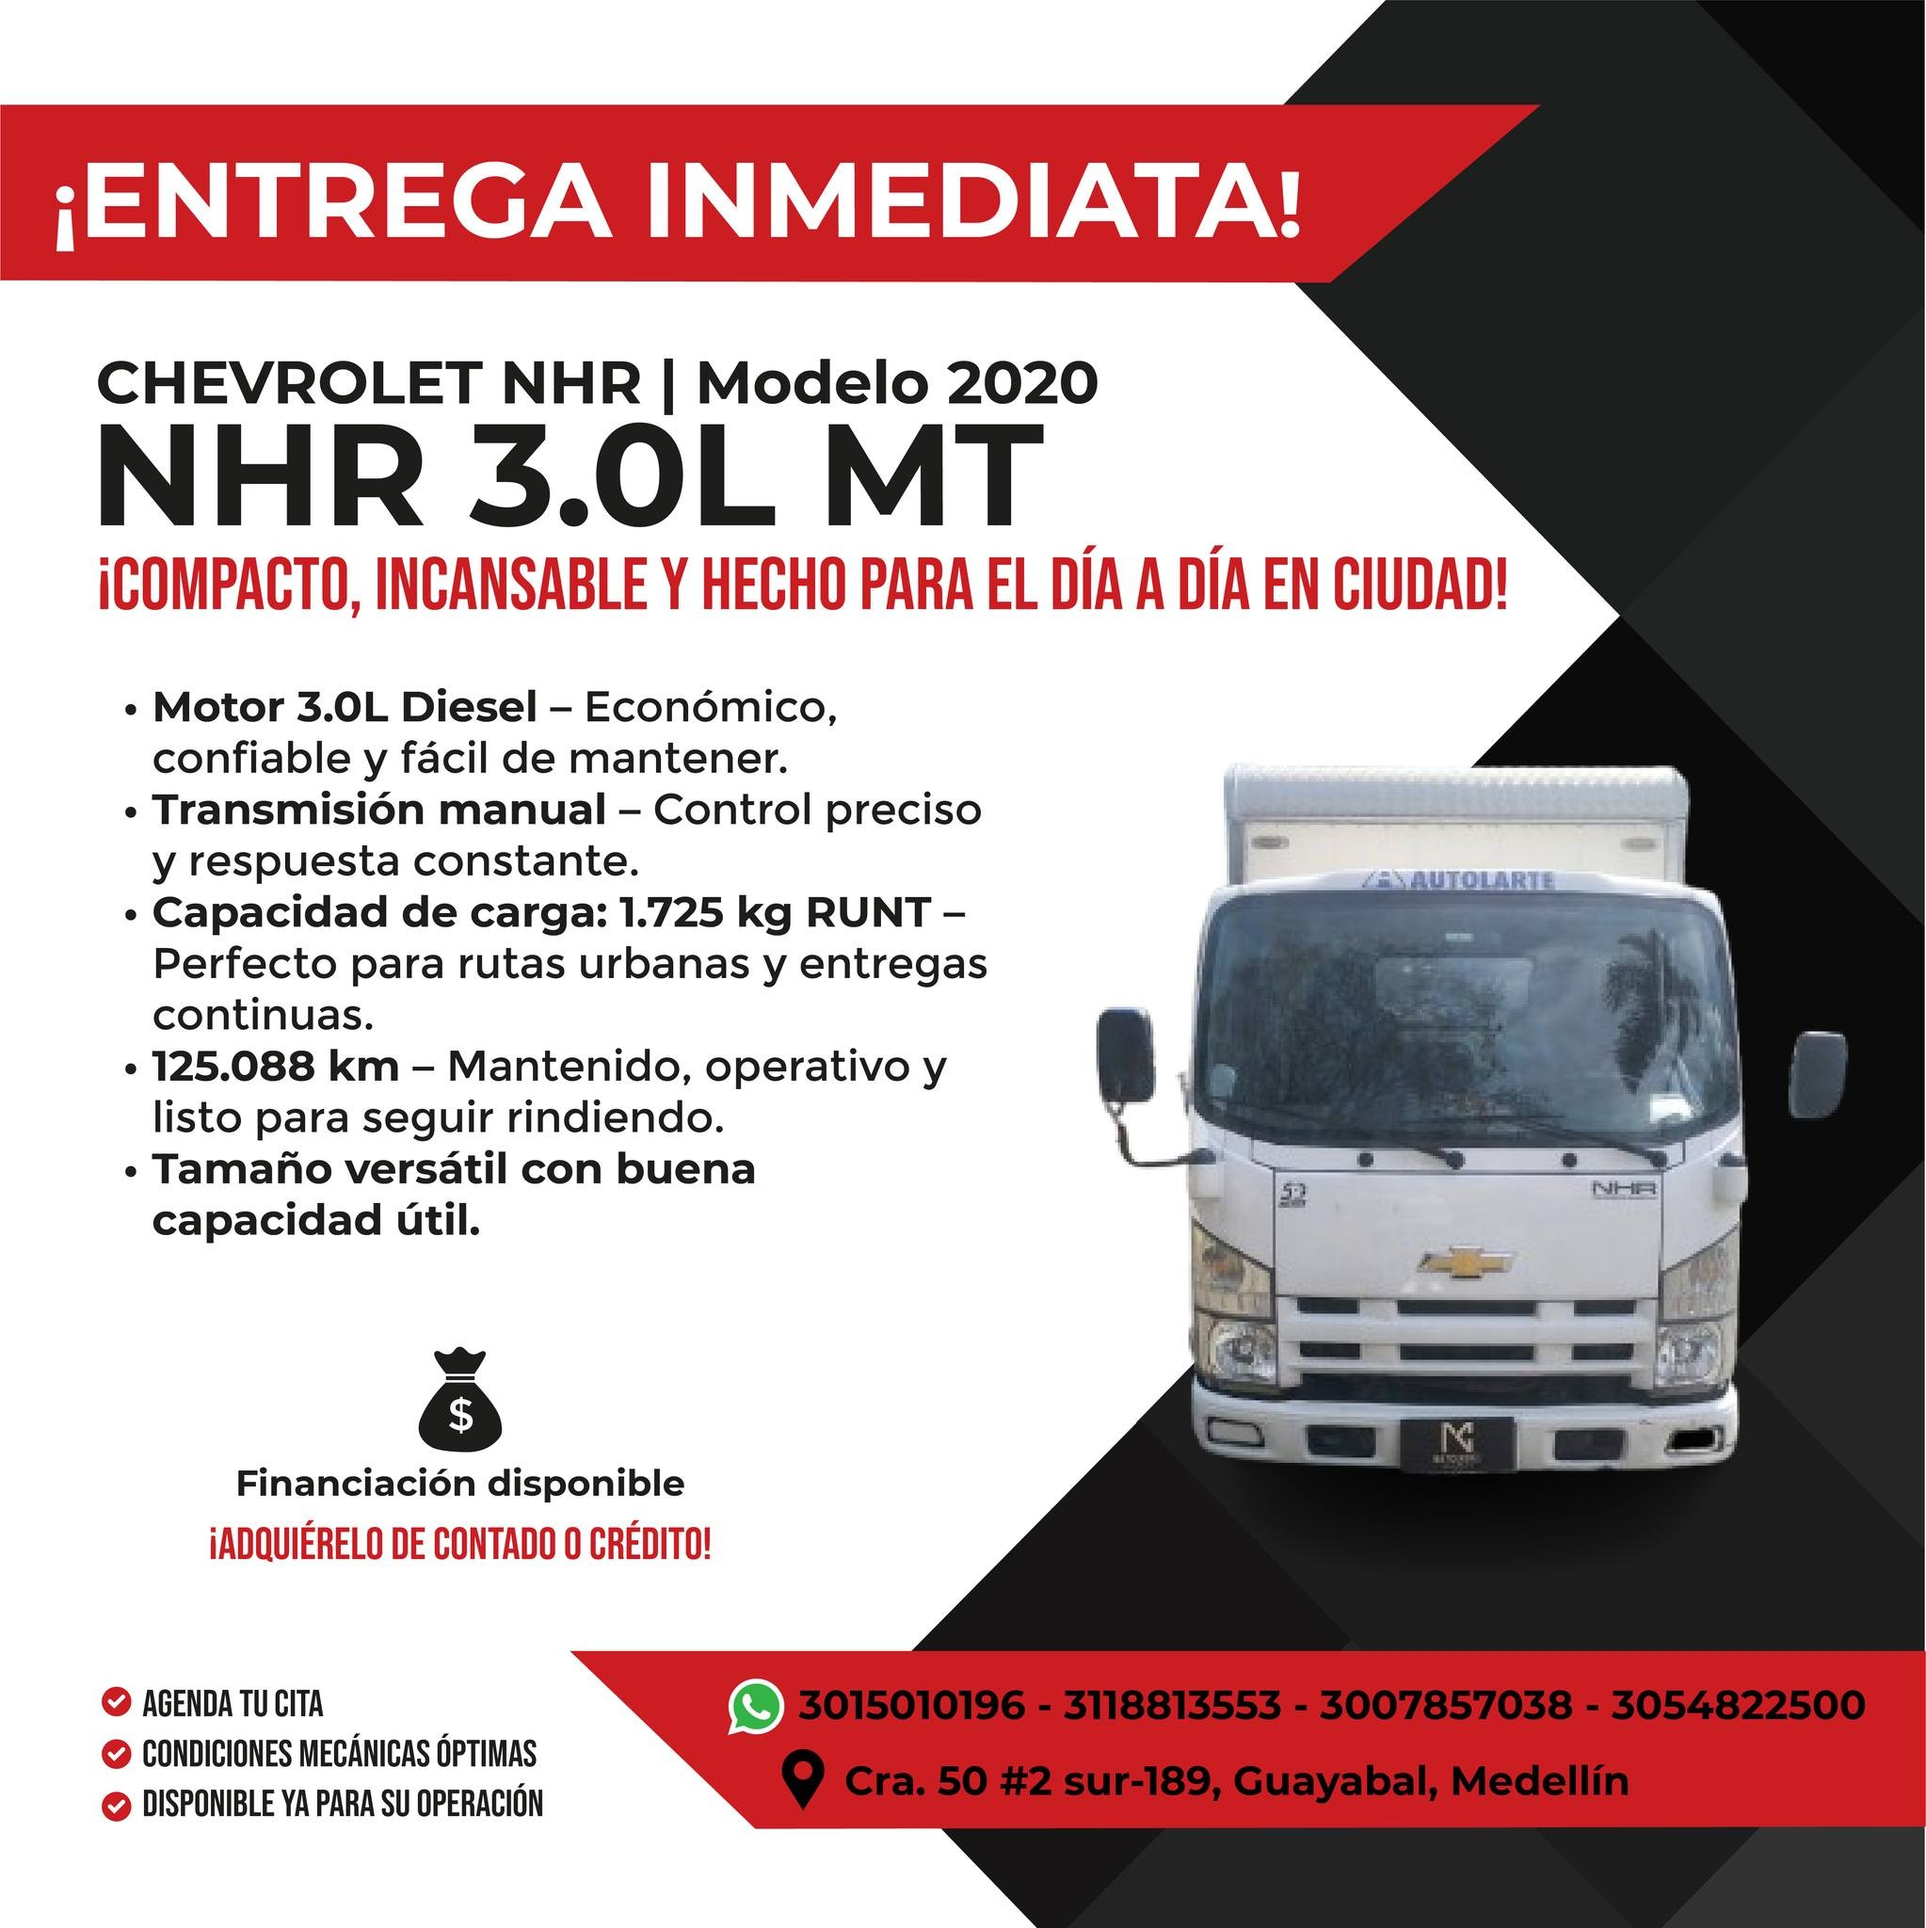
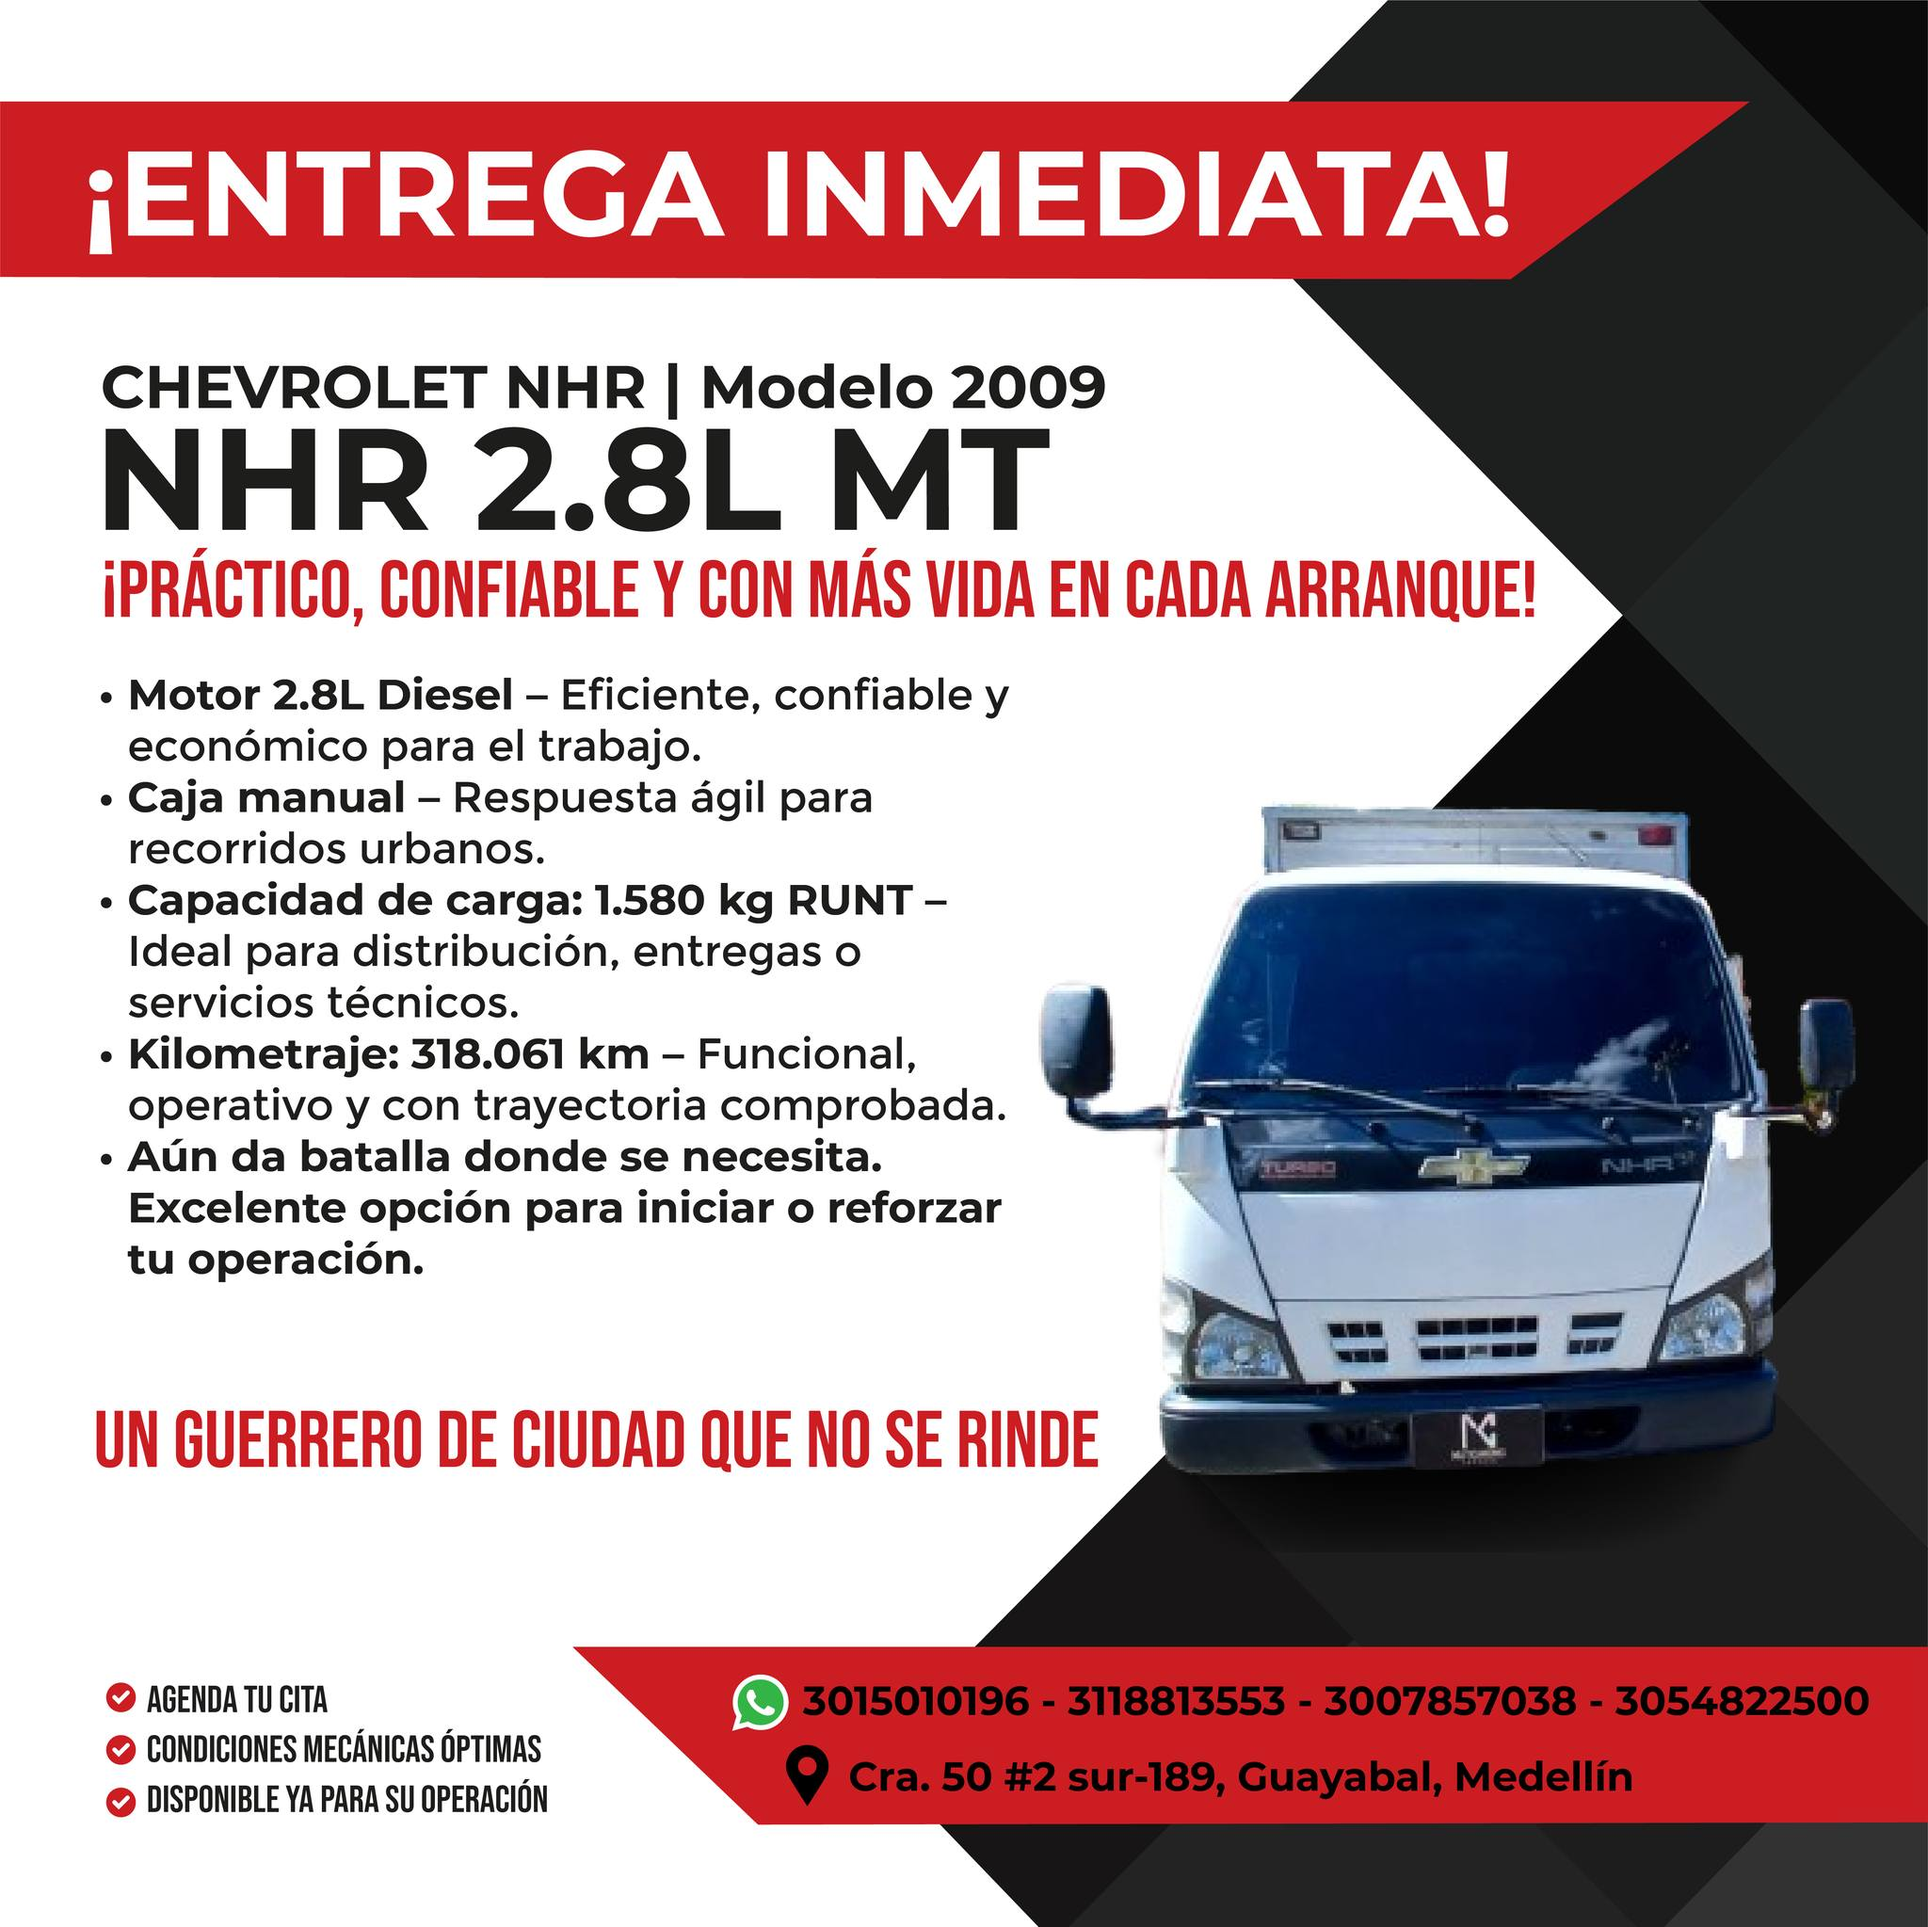
Descripción de los cambios

diff --git a/src/assets/pages/Camiones.jsx b/src/assets/pages/Camiones.jsx
@@ -683,29 +683,59 @@ const Camiones = () => {
   destacado: true,
   descripcion: 'Reconocido por su bajo costo de operacion.',
   imagenes: [
-    '/img/CHEVROLETNHR2020.webp',
-    '/img/CHEVROLETNHR2020.webp',
-    '/img/CHEVROLETNHR2020.webp'
+    '/img/CHEVROLETNHRMODELO20203.0.webp',
+    '/img/CHEVROLETNHRMODELO20203.0.webp',
+    '/img/CHEVROLETNHRMODELO20203.0.webp'
   ],
   video: 'https://www.youtube.com/watch?v=JGwWNGJdvx8',
   especificaciones: {
     motor: '3,0L Diesel',
     transmision: 'MANUAL',
     capacidad: 'De carga 1725 kg RUNT'
+  }
+},
+  {
+  id: 26,
+  marca: 'Chevrolet',
+  tipo: 'Camión',
+  modelo: '',
+  ubicacion: 'Medellín',
+  precio: 62000000,
+  kilometraje: 318061,
+  año: 2009,
+  estado: 'Usado',
+  destacado: true,
+  descripcion: 'Aun da batalla donde se necesita, excelente opción para iniciar o reforzar tu operación .',
+  imagenes: [
+    '/img/CHEVROLETNHR2020.webp',
+    '/img/CHEVROLETNHR2020.webp',
+    '/img/CHEVROLETNHR2020.webp'
+  ],
+  video: 'https://www.youtube.com/watch?v=JGwWNGJdvx8',
+  especificaciones: {
+    motor: '2,8L Diesel',
+    transmision: 'MANUAL',
+    capacidad: 'De carga 1580 kg RUNT'
   } // ✅ Aquí no va coma si es el último atributo
 }
 
-  ]
+  ];
 
-return camiones.map(camion => ({
-      ...camion,
-      marca: normalizeValue(camion.marca) === 'chevrolet' ? 'Chevrolet' : camion.marca,
-      tipo: normalizeValue(camion.tipo) === 'camión' ? 'Camión' : 
-            normalizeValue(camion.tipo) === 'camióneta' ? 'Camióneta' : camion.tipo,
-      ubicacion: normalizeValue(camion.ubicacion) === 'medellín' ? 'Medellín' : camion.ubicacion
-    }));
+return rawCamiones.map(camion => {
+      const normalizedMarca = normalizeValue(camion.marca);
+      const normalizedTipo = normalizeValue(camion.tipo);
+      const normalizedUbicacion = normalizeValue(camion.ubicacion);
+      
+      return {
+        ...camion,
+        marca: normalizedMarca.includes('chevrolet') ? 'Chevrolet' : 
+               normalizedMarca === 'fotón' ? 'Fotón' : camion.marca,
+        tipo: normalizedTipo === 'camión' ? 'Camión' : 
+              normalizedTipo === 'camióneta' ? 'Camióneta' : camion.tipo,
+        ubicacion: normalizedUbicacion === 'medellín' ? 'Medellín' : camion.ubicacion
+      };
+    });
   }, [normalizeValue]);
-
   // Actualizar ancho de ventana al cambiar tamaño con debounce
   useEffect(() => {
     let resizeTimeout;

diff --git a/src/assets/pages/CamionesDetalle.jsx b/src/assets/pages/CamionesDetalle.jsx
@@ -1007,9 +1007,57 @@ const CamionDetalle = () => {
         'Transmisión Manual - Control preciso y respuesta constante',
         'Capacidad de Carga - 1.725 KG RUNT Perfecto para rutas urbanas y entregas',
 
-      ]
-    },
+      ],
        
+      garantia: '',
+      contacto: {
+        nombre: 'Juan Acosta',
+        telefono: '+57 3127767298',
+        whatsapp: '+57 3127767298',
+        email: 'multicamionesexpressmed@gmail.com',
+        horario: 'Lunes a Viernes: 9:00 AM - 5:00 PM / Sábados: 10:00 AM - 2:00 PM'
+      }
+    },
+     
+    { 
+      id: 26, 
+      marca: 'Chevrolet NHR', 
+      tipo: 'Camión', 
+      modelo: '', 
+      ubicacion: 'MEDELLIN',
+      precio: 65000000,
+      kilometraje:318061,
+      año: 2009,
+      estado: 'usado',
+      destacado: true,
+      descripcion: 'Aun da batalla donde se necesita,Excelente opción para iniciar o reforzar tu operación.',
+      imagenes: [
+        '/img/CHEVROLETNHR2.81.webp',
+        '/img/CHEVROLETNHR2.82.webp',
+        '/img/CHEVROLETNHR2.83.webp',
+      ],
+      video: '',
+      especificaciones: {
+        'Motor': '2,8L DIESEL',
+        'Capacidad de Carga': '1580 kg RUNT',
+        
+      },
+      caracteristicas: [
+        'Motor 2,8L Diesel - Eficiente y confiable y económico para el trabajo.',
+        'Transmisión Manual - Respuesta ágil para recorridos urbanos.',
+        'Capacidad de Carga - 1.580 KG RUNT Funcional operativo y con trayectoria comprobada.',
+
+      ],
+       
+      garantia: '',
+      contacto: {
+        nombre: 'Juan Acosta',
+        telefono: '+57 3127767298',
+        whatsapp: '+57 3127767298',
+        email: 'multicamionesexpressmed@gmail.com',
+        horario: 'Lunes a Viernes: 9:00 AM - 5:00 PM / Sábados: 10:00 AM - 2:00 PM'
+      }
+    },
   ]
 
   useEffect(() => {
